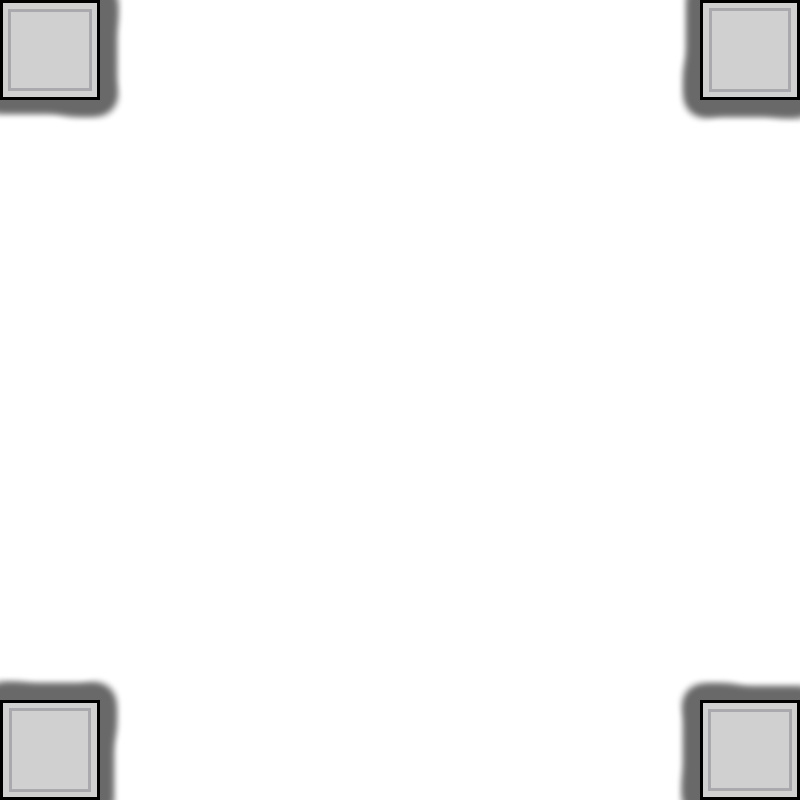
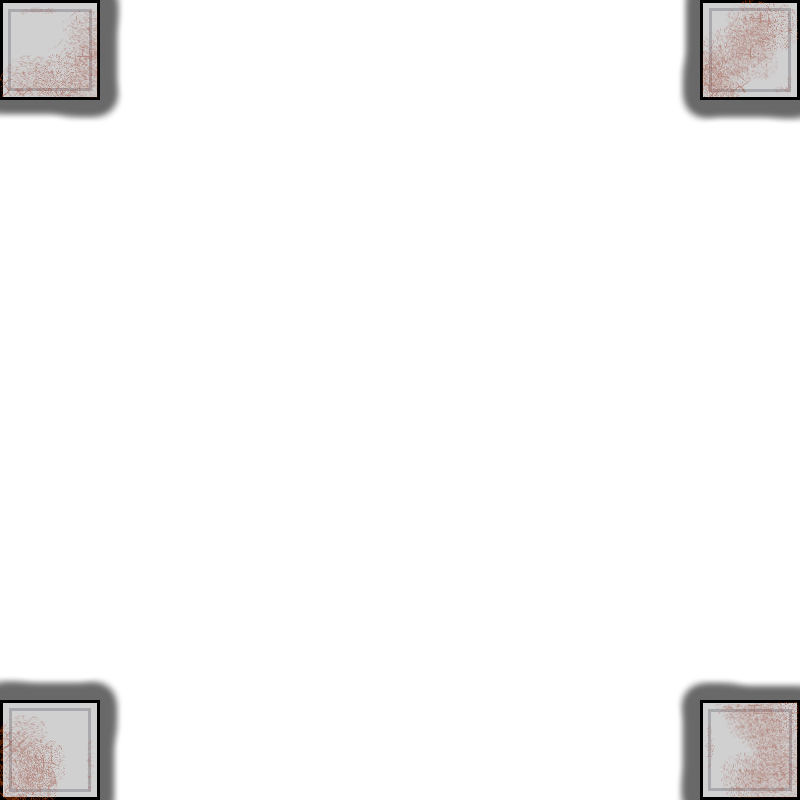
add doodads update metal posts

diff --git a/client/js/menuscenes.js b/client/js/menuscenes.js
@@ -39,6 +39,16 @@ class LandingScene extends Phaser.Scene {
         this.load.image('grass', 'assets/backdrops/grass.png');
         this.load.image('metalPosts', 'assets/backdrops/metalPosts.png');
         this.load.image('treePosts', 'assets/backdrops/treePosts.png');
+        this.load.image('doodad1', 'assets/backdrops/doodad1.png');
+        this.load.image('doodad2', 'assets/backdrops/doodad2.png');
+        this.load.image('doodad3', 'assets/backdrops/doodad3.png');
+        this.load.image('doodad4', 'assets/backdrops/doodad4.png');
+        this.load.image('doodad5', 'assets/backdrops/doodad5.png');
+        this.load.image('doodad6', 'assets/backdrops/doodad6.png');
+        this.load.image('doodad7', 'assets/backdrops/doodad7.png');
+        this.load.image('doodad8', 'assets/backdrops/doodad8.png');
+        this.load.image('doodad9', 'assets/backdrops/doodad9.png');
+        this.load.image('doodad10', 'assets/backdrops/doodad10.png');
         this.load.image('ball', 'assets/sprites/images/ball.png');
         this.load.image('eye', 'assets/sprites/images/eye.png');
         this.load.atlasXML('slimeMiddle', 'assets/sprites/images/SlimeMiddle.png', 'assets/sprites/xml/SlimeMiddle.xml');

diff --git a/client/js/game.js b/client/js/game.js
@@ -9,7 +9,8 @@ class GameScene extends Phaser.Scene {
                 { name: 'metalPosts', depth: 0 },
                 { name: 'treePosts', depth: 10 }
             ],
-            doodads: []
+            doodads: [ 'doodad1', 'doodad2', 'doodad3', 'doodad4', 'doodad5', 'doodad6', 
+                       'doodad7', 'doodad8', 'doodad9', 'doodad10' ]
         }
     }
 
@@ -82,6 +83,10 @@ class GameScene extends Phaser.Scene {
         randNum = parseInt(Math.random() * this.backdropItems.pillars.length);
         let posts = this.add.image(400, 400, this.backdropItems.pillars[randNum].name);
         posts.setDepth(posts.depth + this.backdropItems.pillars[randNum].depth);
+        for (let i =0; i < 3; i++) {
+            randNum = parseInt(Math.random() * this.backdropItems.doodads.length);
+            this.add.image(400, 400, this.backdropItems.doodads[randNum]);
+        }
     }
 
     createEmitter(){
